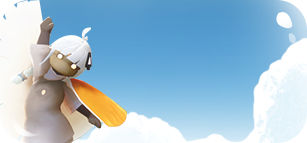
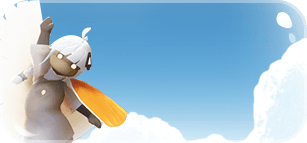
refs #67935 【活动中心】PC上线庆典活动新TAB风格迭代，活动2：在更广阔天空相遇图片压缩

diff --git a/src/views/PcCelebration/PcCelebration.vue b/src/views/PcCelebration/PcCelebration.vue
@@ -53,7 +53,6 @@ import { showToast } from 'vant'
 import { getPlayerMissionData, claimMissionReward } from '@/utils/request'
 import type { Event } from '@/types'
 import { useMenuStore } from '@/stores/menu'
-import { getResponsiveStylesFactor } from '@/utils/responsive'
 import { useActivityStore } from '@/stores/pcCelebration'
 import { REWARD_MAP } from '@/constants/rewardMap'
 import ModalHelp from './components/ModalHelp.vue'
@@ -66,8 +65,6 @@ import {
 } from './config'
 import { useTransitions } from './composables/useTransition'
 
-// 获取响应式样式因子，用于调整UI元素大小以适应不同屏幕尺寸
-getResponsiveStylesFactor()
 const { bodyTransitionName, headTransitionName, mainTransitionName } =
   useTransitions()
 
